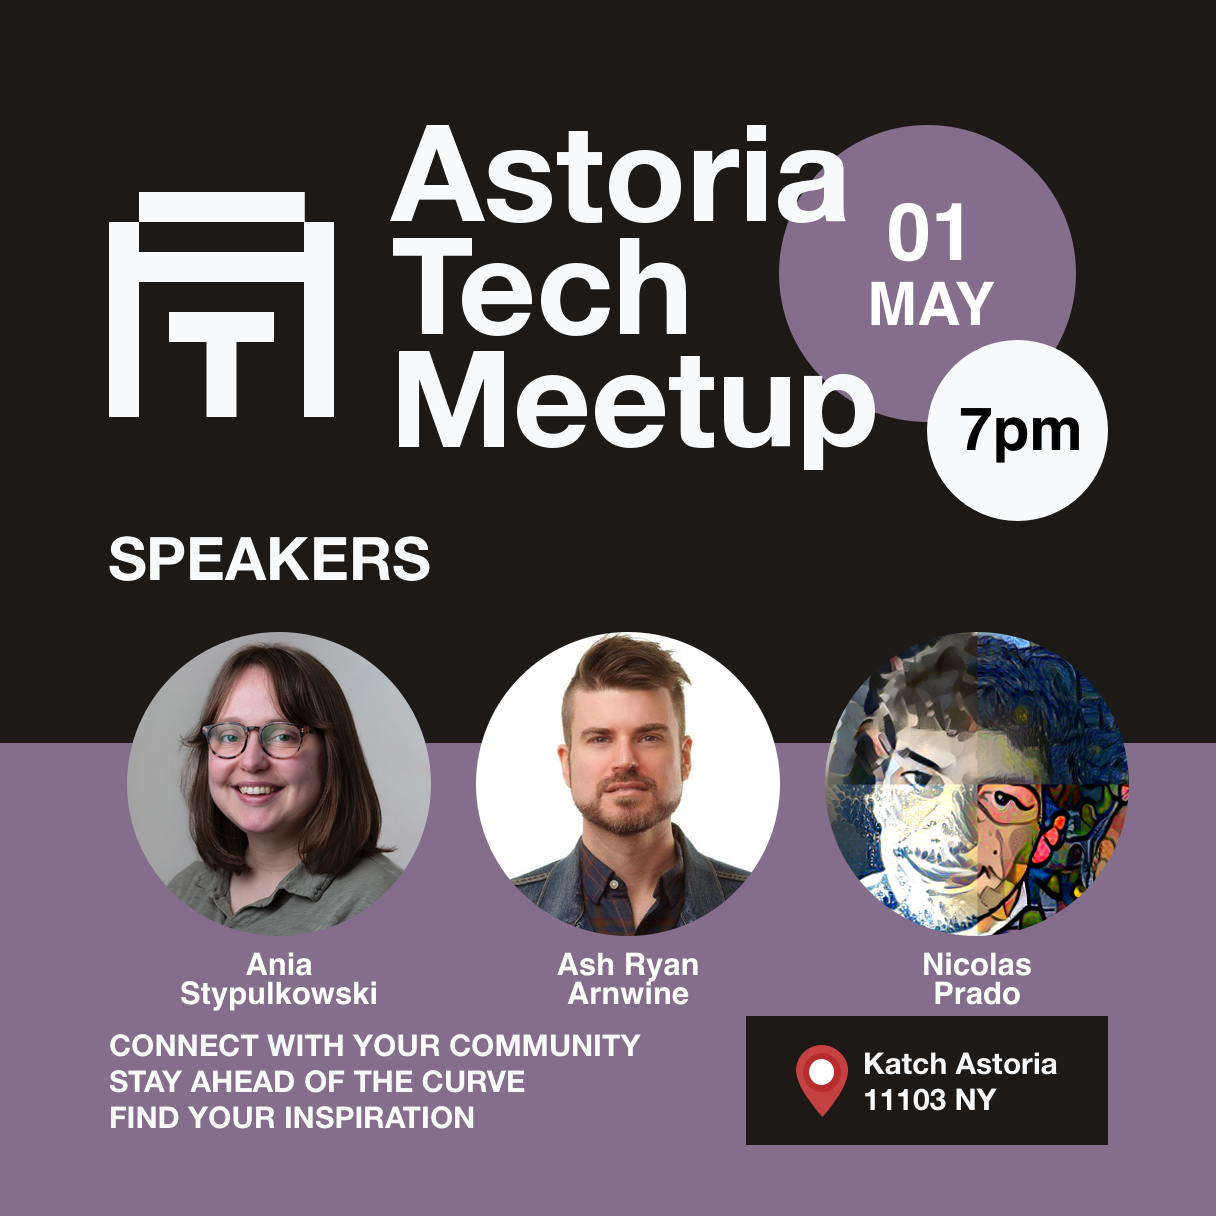
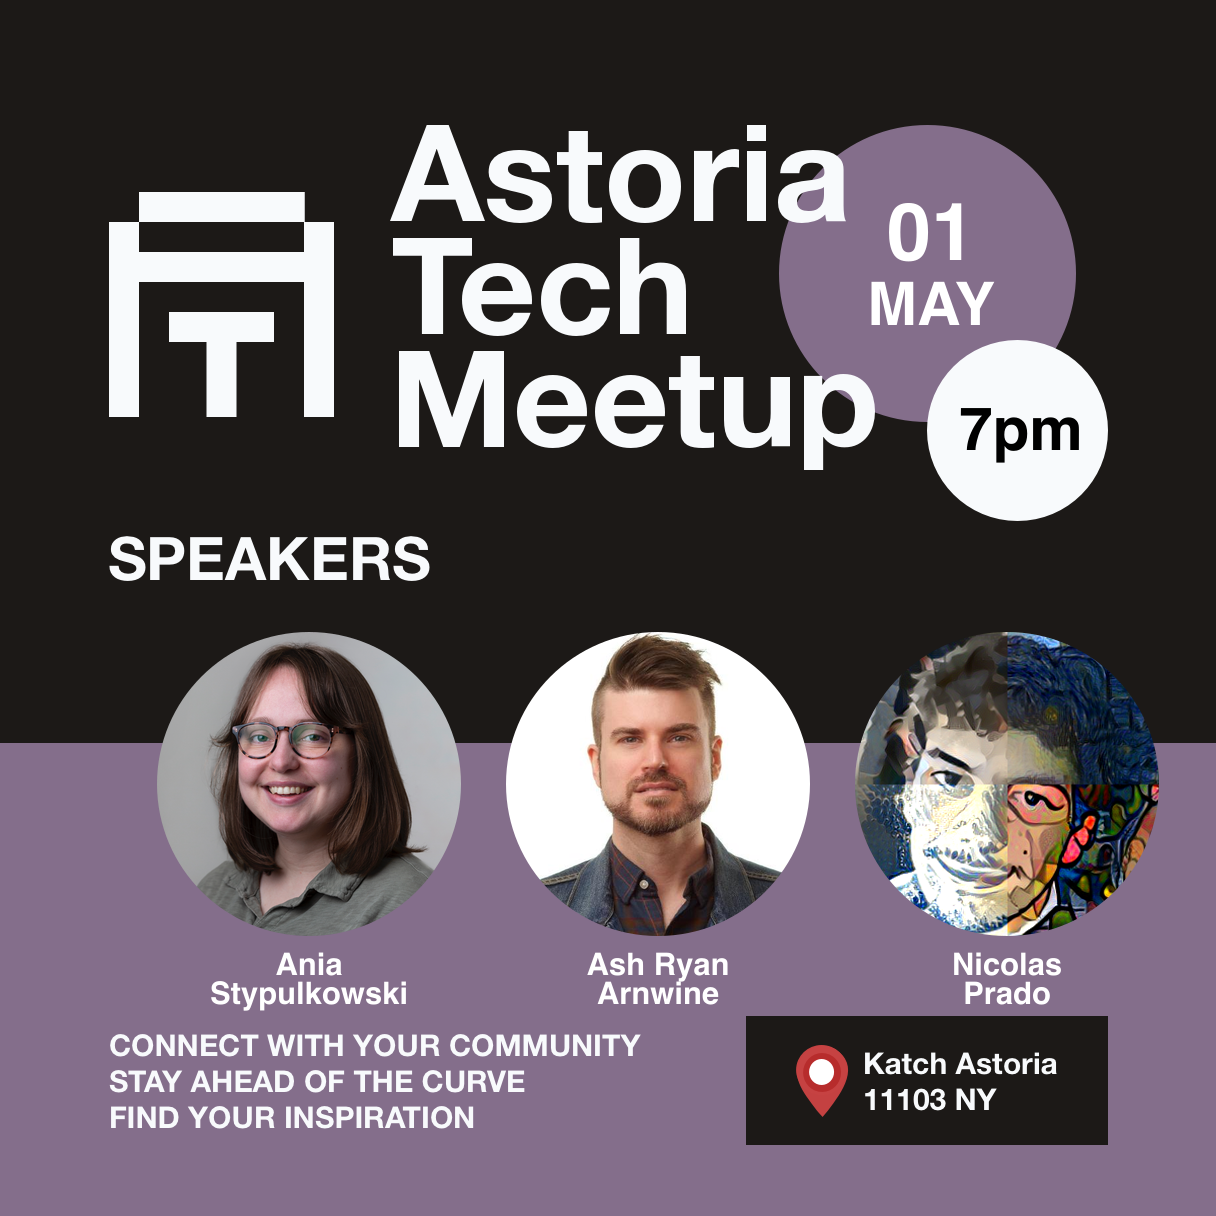
svg fix image size

Changed region(s): [[0.0938, 0.5, 0.9688, 0.8438]]

diff --git a/packages/image-generator/1.core.ts b/packages/image-generator/1.core.ts
@@ -174,7 +174,7 @@ export async function build(options: Options) {
 
         const svg = speakerSvg({
           imageSize: speakerWidth,
-          xPadding: 20,
+          xPadding: 50,
           lines: Array.isArray(speaker.name) ? speaker.name : optimalName(speaker.name),
           image: base64,
           fontSize: 31,
